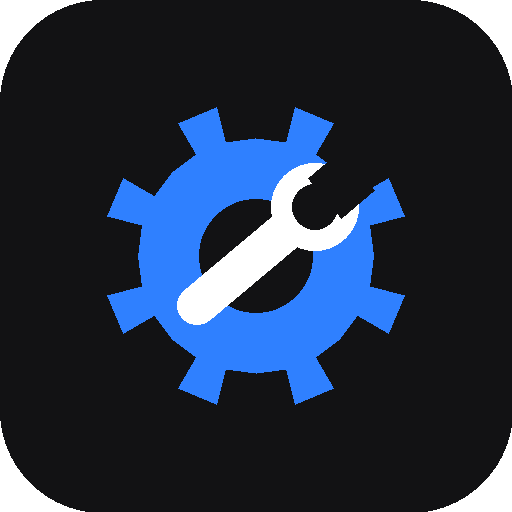
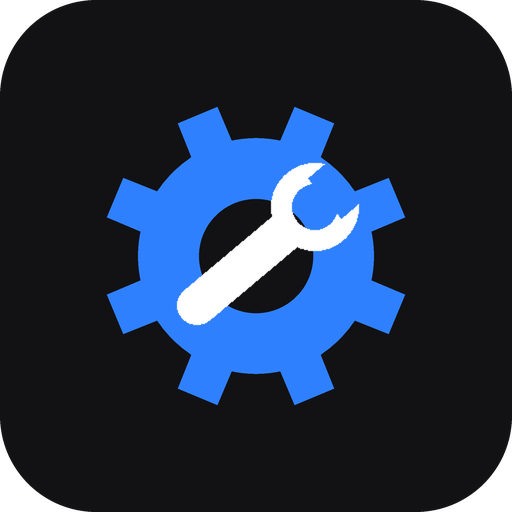
migliorata qualita' icone app (anti-aliasing), design invariato

diff --git a/sw.js b/sw.js
@@ -1,4 +1,4 @@
-const CACHE = 'motolog-v22';
+const CACHE = 'motolog-v23';
 const SHELL = ['./', './index.html', './app.js', './manifest.json', './icon-192.png', './icon-512.png'];
 
 self.addEventListener('install', (e) => {
